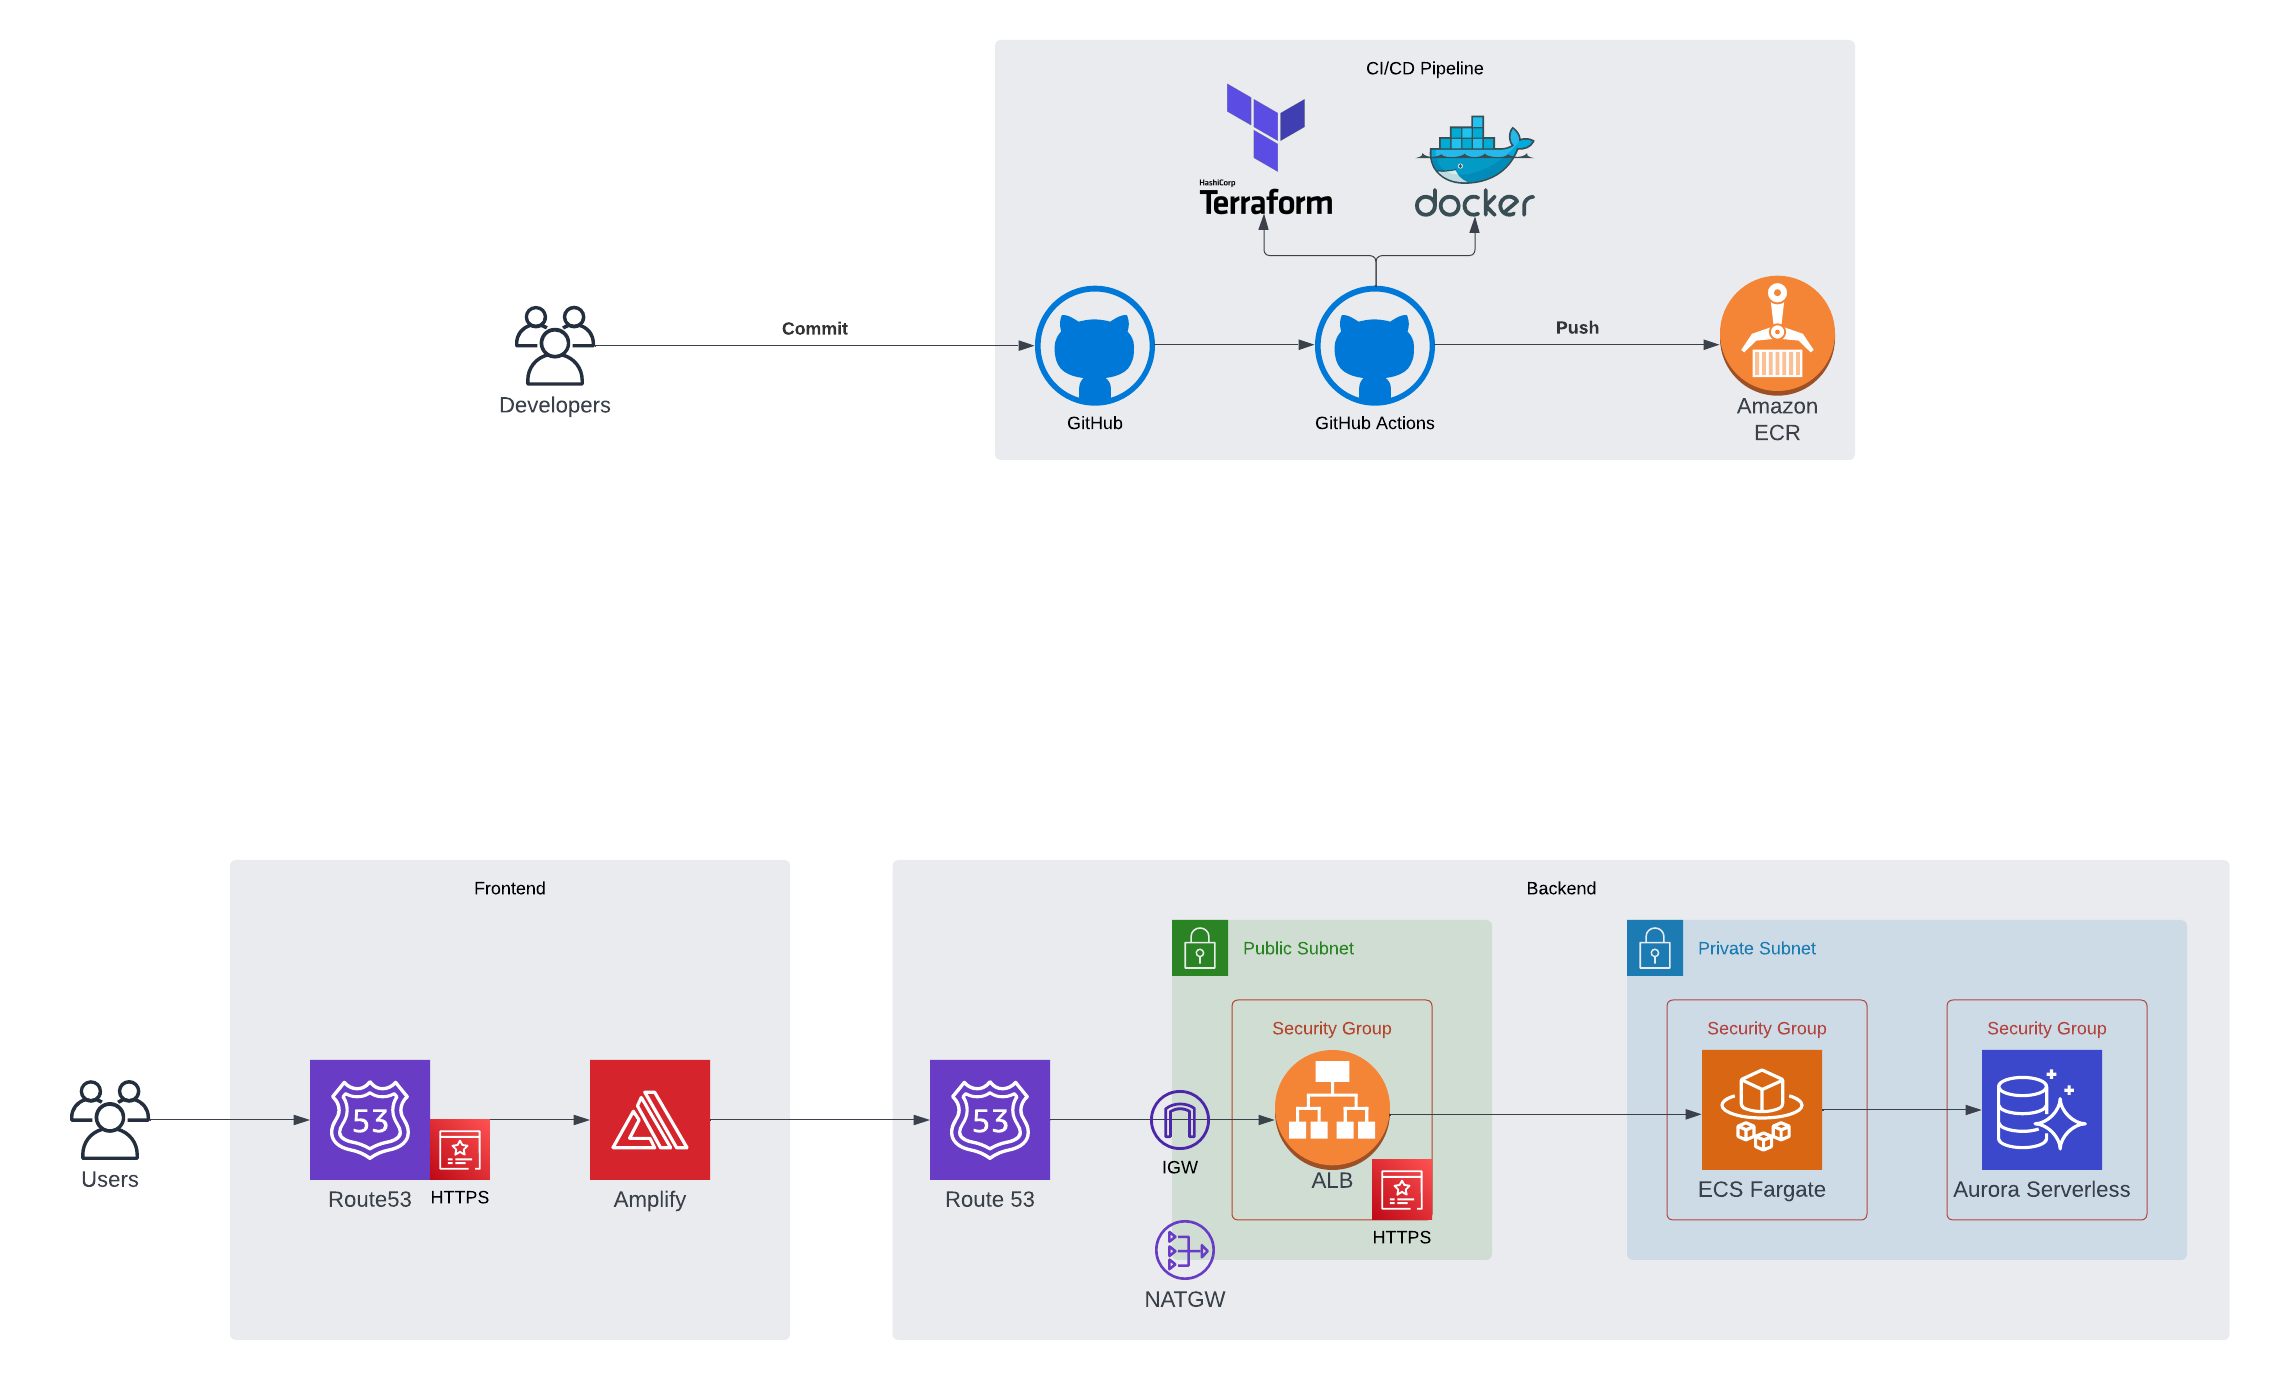
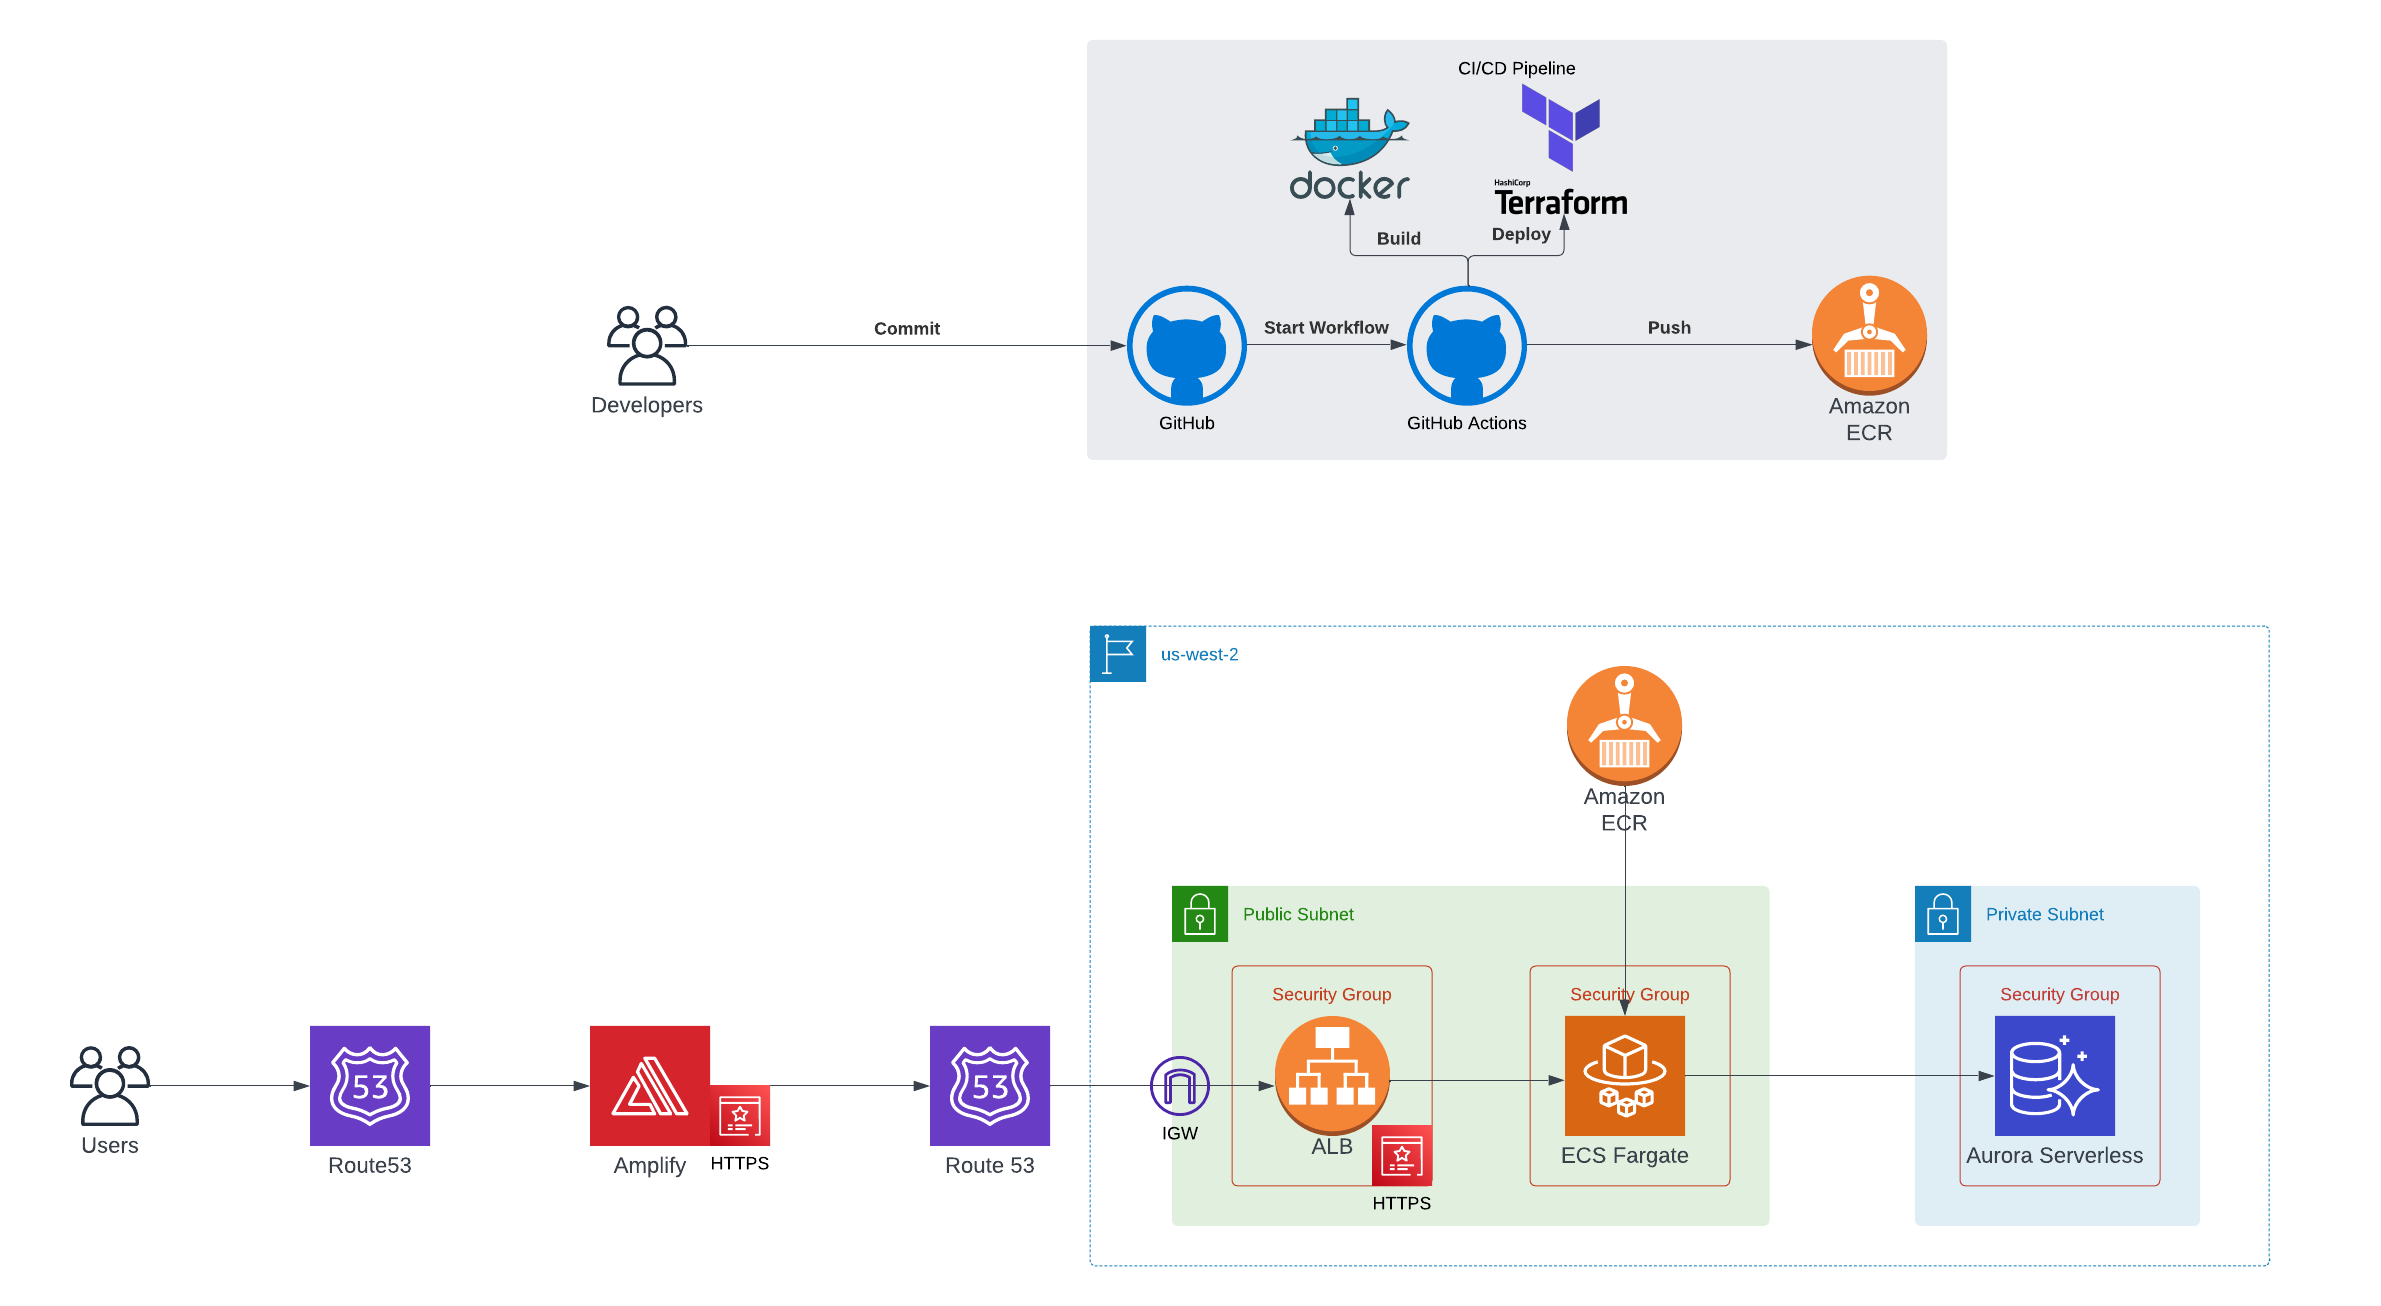
Update README high level architecture diagram

diff --git a/README.md b/README.md
@@ -9,7 +9,7 @@ You can access the frontend at https://houseparty.imranmatin.com and the backend
 ![High Level Architecture](images/high-level-architecture.png)
 
 <div style="text-align:center">
-  <a href="https://lucid.app/lucidchart/61862a22-6730-4e64-aada-cd3617d847a3/edit?viewport_loc=-613%2C-1072%2C3552%2C1902%2C0_0&invitationId=inv_61387a4a-f09a-4db2-b2ba-9c67d432c55f">High Level Architecture Diagram</a>
+  <a href="https://lucid.app/lucidchart/f793f794-16cb-4f11-a141-57211f60e8f3/edit?viewport_loc=-1317%2C-1314%2C4992%2C2442%2C0_0&invitationId=inv_6dfb9991-fb70-47f7-9ed5-fc6efa87ec8f">High Level Architecture Diagram</a>
 </div>
 
 ## Environments
@@ -43,6 +43,9 @@ The CI/CD pipeline was created using `GitHub Actions`. See [.github/workflows/RE
 N/A.
 
 ## Enhancements
+
+- Add ECS Exec for Django ECS Tasks.
+- Add EC2 Bastion Host for RDS.
 
 - Add test scaffolding (unit, integration, canary, etc.) for frontend/backend.
 - Read backend secrets from AWS Secrets Manager rather than from environment variables.

diff --git a/infra/README.md b/infra/README.md
@@ -2,14 +2,6 @@
 
 The infrastructure was created using `docker`, `terraform` and `AWS`.
 
-## Infrastructure Diagram (TODO)
-
-![Infrastructure Diagram](../images/infrastructure-diagram.png)
-
-<div style="text-align:center">
-  <a href="TODO">Infrastructure Diagram</a>
-</div>
-
 ## Frontend
 
 To deploy the infrastructure remotely you can rely on `.github/workflows/deploy_frontend_infra.yml` (CI/CD with GitHub Actions). All secrets that are required during deployment are defined as GitHub Repository Secrets, therefore add the following GitHub Secret to the repository.
